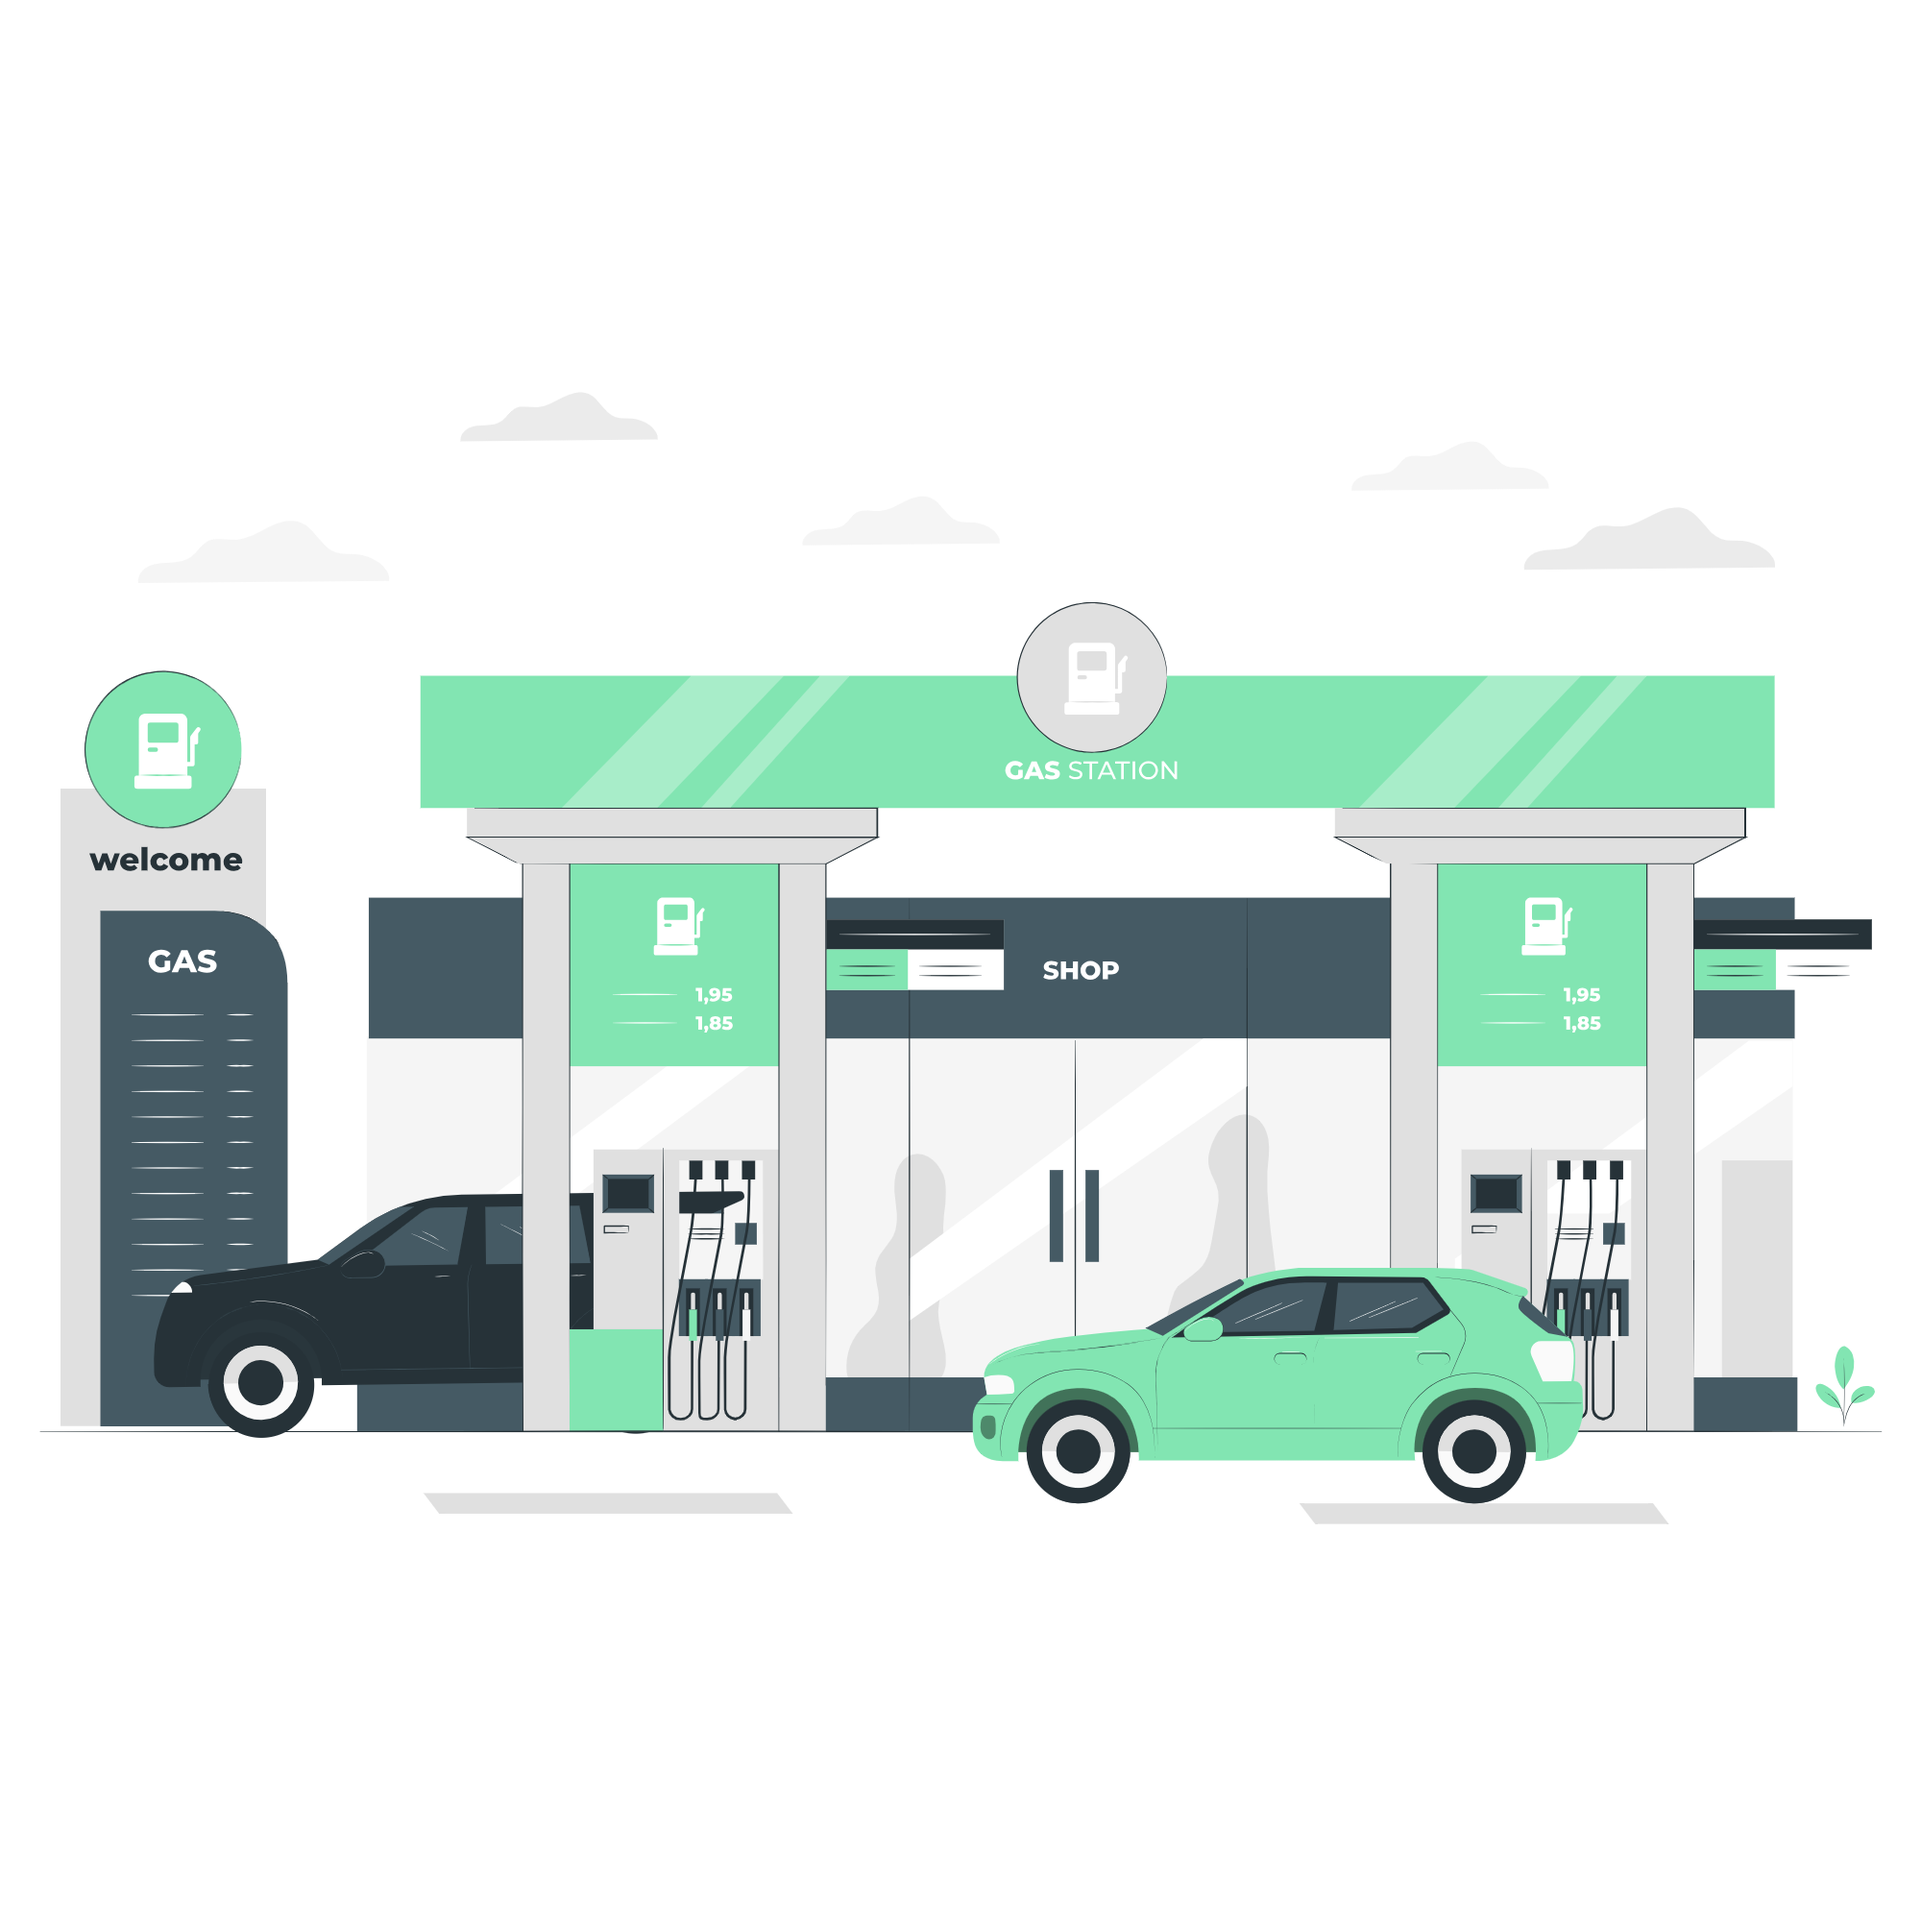
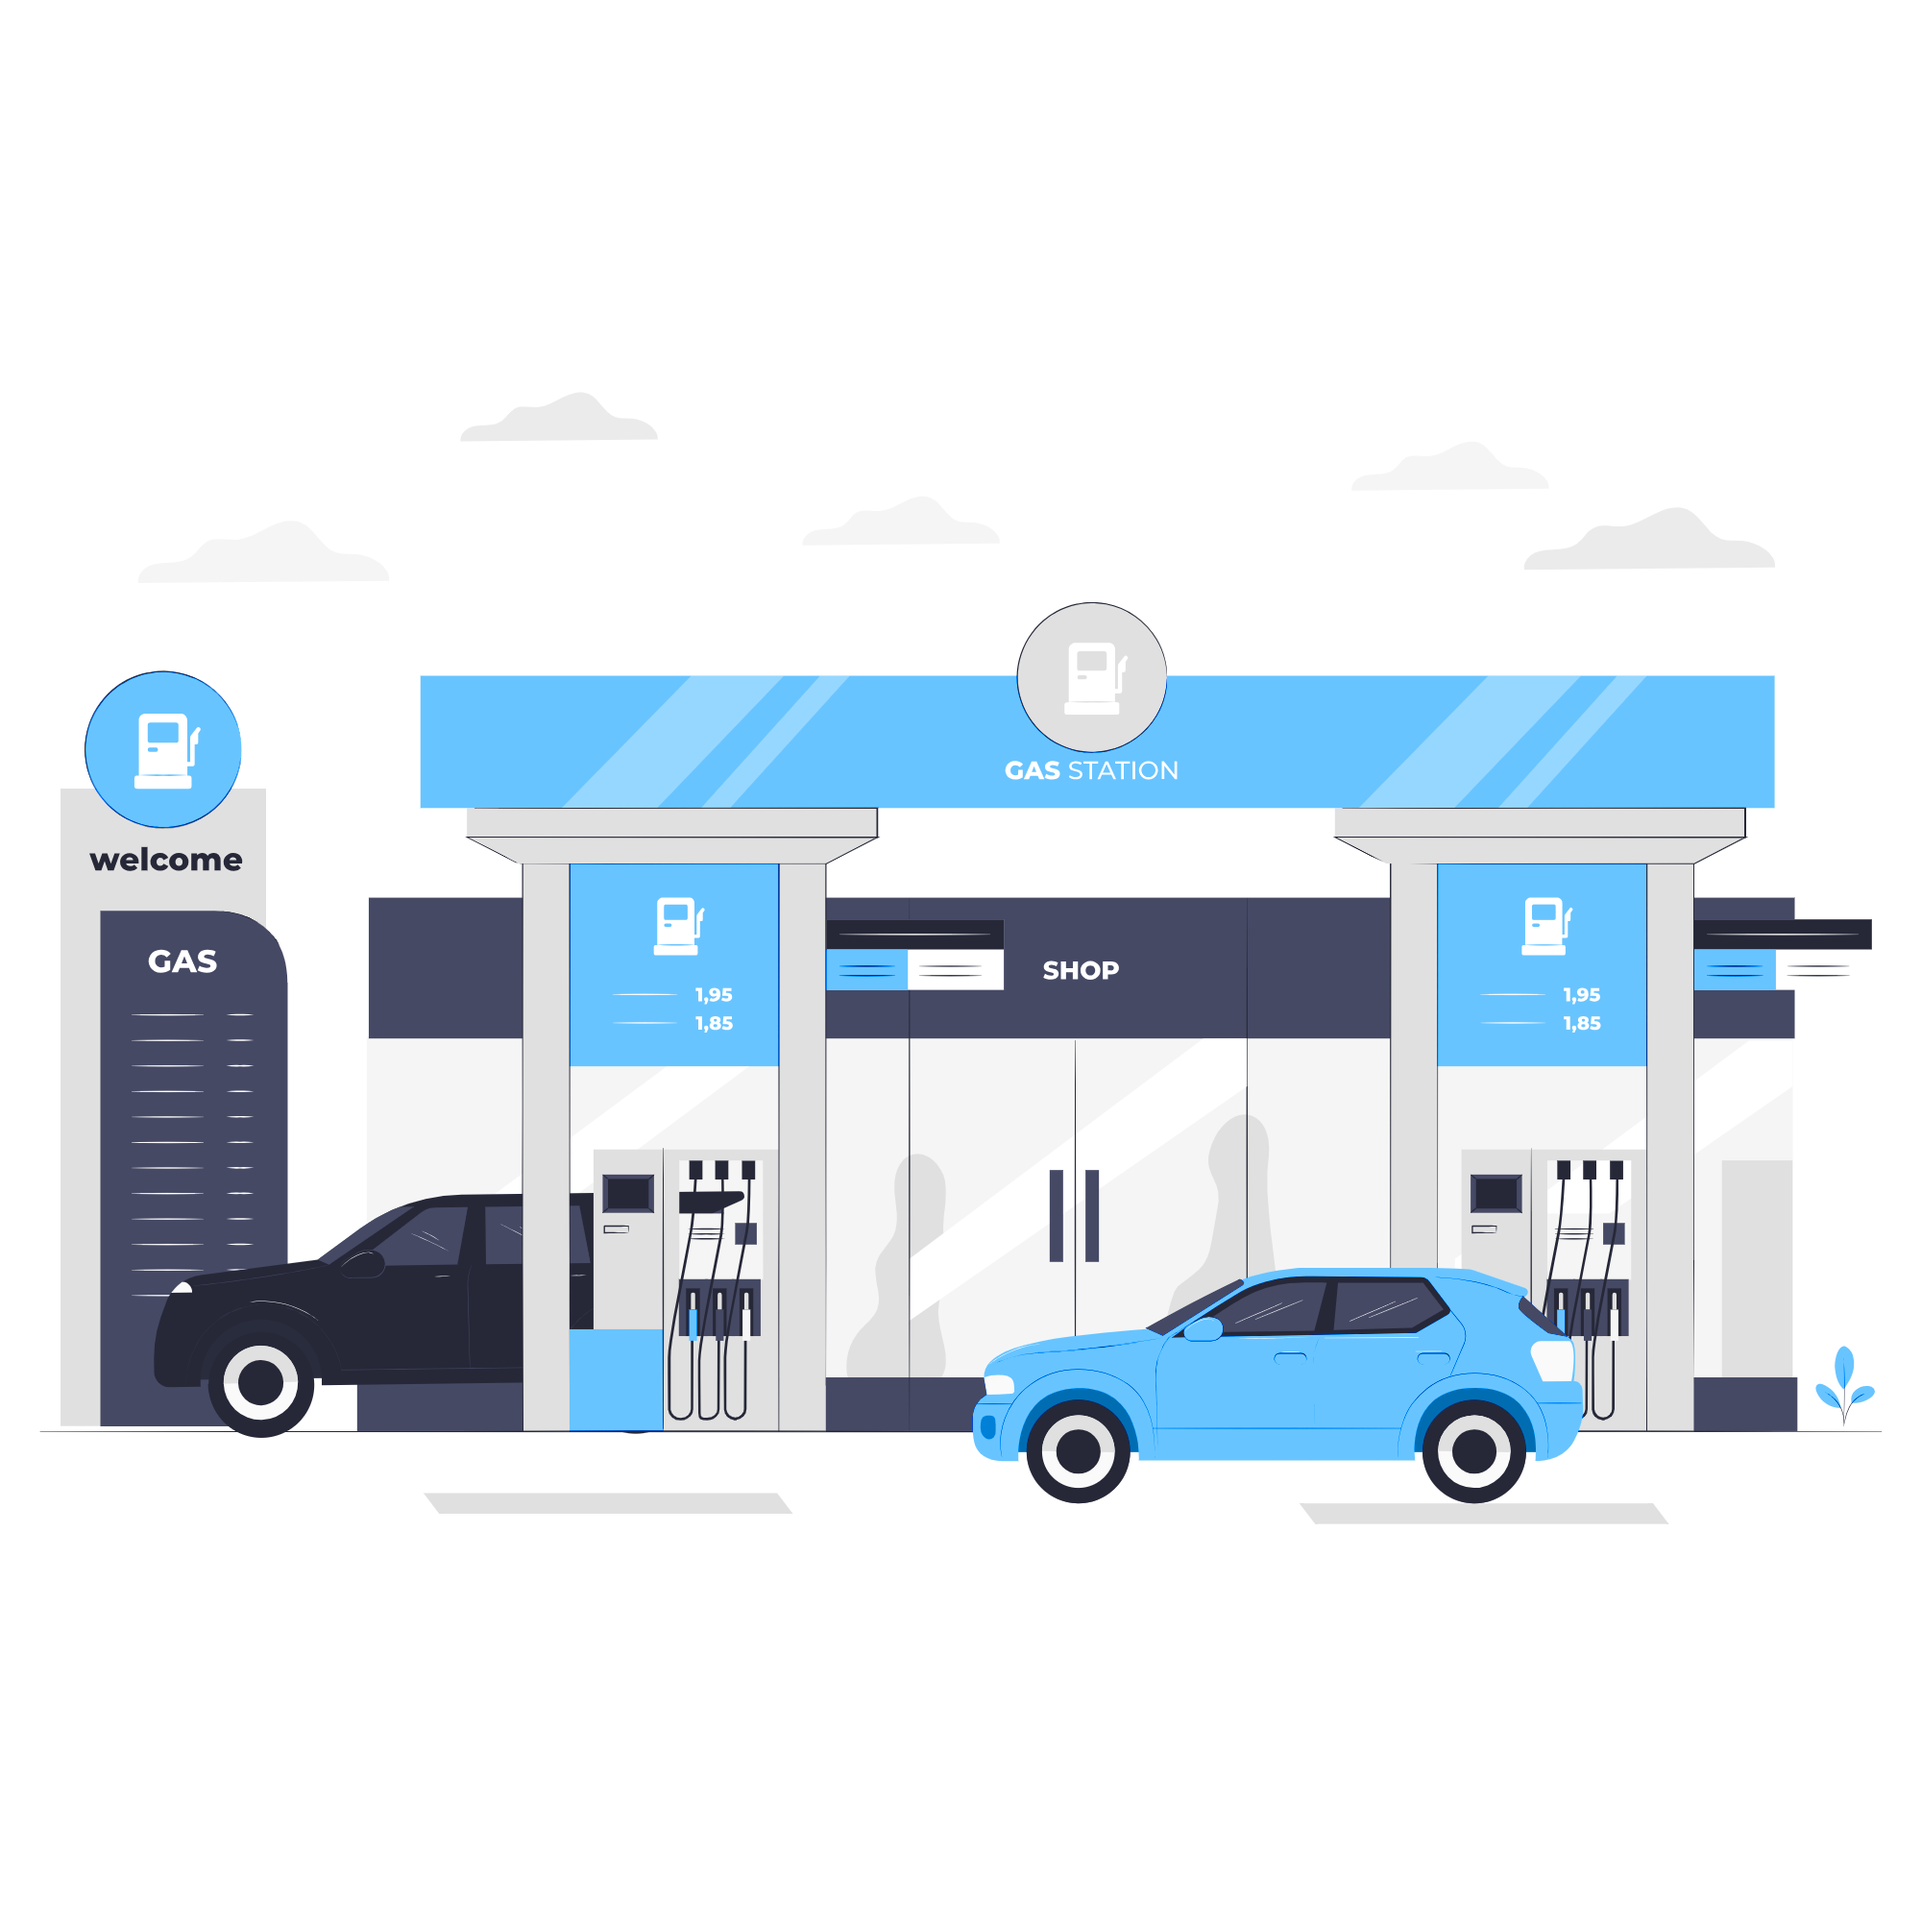
G

diff --git a/tailwind.config.js b/tailwind.config.js
@@ -5,11 +5,11 @@ export default {
       colors: {
         primary: "#eff4f2",
         secondary: "#FFFFFF",
-        detail: "#38b59e",
+        detail: "#25B0FF",
         text: "#3C3C3C",
         icon: "#7C7C7C",
-        inputB: "#99d4c8",
-        input: "#effffc",
+        inputB: "#25B0FF30",
+        input: "#25B0FF10",
         subText: "#DDDDDD",
         danger: "#EB6A6A",
         shadow: "#3aaf94",
